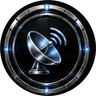
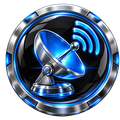
feat(tournament): new satellite chip artwork, badge 50% larger (20px -> 30px)

diff --git a/src/components/tournament/details/SatelliteSeatBadge.tsx b/src/components/tournament/details/SatelliteSeatBadge.tsx
@@ -17,9 +17,18 @@
  * goes through `mediaUrl()` (Phase U5.3) so the base, and any future CDN
  * flip, is decided in one place.
  *
- * The artwork is the supplied dish icon, circle-cropped to TRANSPARENCY at
- * 96px (19KB PNG) so it stays crisp on retina at its 20px render size and
- * needs no border-radius fakery over a black JPG square.
+ * Dan 2026-08-28, second pass: the artwork is now the DYNAMIC dish chip he
+ * supplied — a chrome-rimmed black chip with a blue neon dish and signal arcs,
+ * already circular with a transparent surround, so nothing here crops or
+ * rounds it. RENDER SIZE IS 30px, exactly 50% larger than the 20px this badge
+ * first shipped at, because at 20px the arcs and the rim highlights read as
+ * noise on a phone. The PNG ships at 120px — 4x the render size — so it stays
+ * sharp on a 3x retina panel with room to grow again without a re-export.
+ *
+ * IF YOU CHANGE THE SIZE, change `width`/`height` AND the inline style
+ * together. The attributes reserve the box before the image loads (no layout
+ * shift in a long entries list); the style is what actually paints. One
+ * without the other is the bug that makes the row jump.
  */
 
 import { mediaUrl } from '../../../utils/mediaBase';
@@ -30,9 +39,9 @@ export default function SatelliteSeatBadge() {
       src={mediaUrl('images/satellite-seat-icon.png')}
       alt="Satellite Qualifier"
       title="Won Their Seat Via Satellite"
-      width={20}
-      height={20}
-      style={{ width: 20, height: 20, flex: '0 0 auto', verticalAlign: 'middle' }}
+      width={30}
+      height={30}
+      style={{ width: 30, height: 30, flex: '0 0 auto', verticalAlign: 'middle' }}
       loading="lazy"
       decoding="async"
     />

diff --git a/docs/changelog/2026-08-28-satellite-seat-badge-v2.md b/docs/changelog/2026-08-28-satellite-seat-badge-v2.md
@@ -1,0 +1,33 @@
+# Satellite seat badge — new artwork, 50% larger
+
+Dan, 2026-08-28: "REPLACE THE CURRENT SATELLITE IMAGE ON THE TOURNAMENT PAGE
+THAT WE USE TO IDENTIFY PLAYERS WHO 'WON THEIR SEAT' WITH THIS NEW DYNAMIC
+ONE. MAKE IT 50% LARGER THAN THE CURRENT SIZE PUBLISHED NOW."
+
+## What changed
+
+- `public/images/satellite-seat-icon.png` — replaced with the supplied chip
+  artwork: chrome-rimmed black chip, blue neon dish and signal arcs. The
+  source was already circular on a transparent surround, so it is trimmed to
+  its bounding box, squared, and resampled to **120px** (Lanczos) with the
+  alpha edge intersected against a clean circle so the rim antialiases rather
+  than stair-steps. 31.7KB.
+
+- `src/components/tournament/details/SatelliteSeatBadge.tsx` — render size
+  **20px -> 30px**, which is the 50% Dan asked for, applied in BOTH the
+  `width`/`height` attributes (box reserved before load, so a long entries
+  list does not shift) and the inline style (what actually paints). The PNG
+  ships at 4x the render size so it stays sharp on a 3x retina panel.
+
+## Where it shows
+
+One component, two surfaces, unchanged:
+
+- `EntriesTab.tsx:368` — inside `.et-marks`
+- `RankingTab.tsx:234` — inside `.rk-nameline`
+
+Both containers are `display: flex; align-items: center` with no fixed height,
+and `.tl-row` sets `min-height: 52px` rather than `height`, so the taller mark
+grows the row instead of being clipped. `.et-marks` already wraps below 420px.
+
+No schema change, no RPC, no test pinned the old size.
